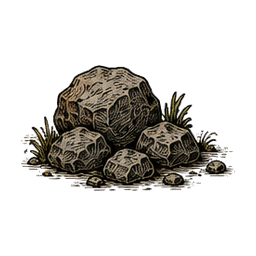
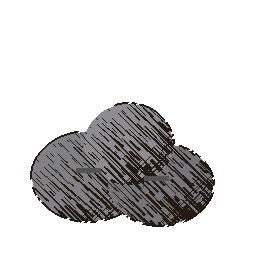
Add diverse terrain decorations and improve terrain rendering
- Introduce new decoration types: deciduous trees, bushes, grass, flowers, and scattered groves for more natural landscapes.
- Add support for decoration height, fallback colors, and density tuning with camp-centered and wide-scatter passes.
- Update `ScatterDecoration` to handle circular radius-based placement for better realism.
- Include new texture imports for added decoration assets (`deciduous_tree`, `bush`, `grass`, `flower`).
- Extend `Main` and `TerrainSandbox` to initialize and render diverse terrain elements.
- Add felling configuration to resources (`apple`, `pear`) with leaf drops on fell.

diff --git a/src/ManyWinters.Godot/Main.cs b/src/ManyWinters.Godot/Main.cs
@@ -23,14 +23,51 @@ public partial class Main : Node3D
     private const string WaterwaysPath = "res://Content/terrain/praha-liben/waterways.json";
     private const string GroundTexturePath = "res://Content/terrain/ground.png";
     private const string ConiferTreePath = "res://Content/terrain/conifer_tree.png";
+    private const string DeciduousTreePath = "res://Content/terrain/deciduous_tree.png";
+    private const string BushPath = "res://Content/terrain/bush.png";
+    private const string GrassPath = "res://Content/terrain/grass.png";
+    private const string FlowerPath = "res://Content/terrain/flower.png";
     private const string RockPilePath = "res://Content/terrain/rock_pile.png";
-    private const int TreeCount = 90;
-    private const int RockCount = 35;
+    private const int TreeCount = 140;
+    private const int DeciduousTreeCount = 100;
+    private const int BushCount = 90;
+    private const int GrassCount = 400;
+    private const int FlowerCount = 70;
+    private const int RockCount = 60;
+    // A second, sparser pass across the whole real terrain patch (radius = _terrain.Half)
+    // on top of the camp-centered one above - without it, everywhere outside
+    // DecorationRadius of camp is bare, since the dense pass never reaches that far.
+    private const int WideTreeCount = 70;
+    private const int WideDeciduousTreeCount = 50;
+    private const int WideBushCount = 40;
+    private const int WideGrassCount = 120;
+    private const int WideFlowerCount = 30;
+    private const int WideRockCount = 30;
+    // A handful of standalone groves scattered elsewhere on the map, on top of the wide
+    // background pass and the camp's own dense zone - a single "dense disk around camp,
+    // sparse everywhere else" gradient reads as one unnaturally uniform blob rather than the
+    // patchy, clumped-together way real forest cover actually sits on a landscape.
+    private const int GroveCount = 4;
+    private const float GroveRadius = 55f;
+    private const int GroveTreeCount = 60;
+    private const int GroveDeciduousTreeCount = 40;
+    private const int GroveBushCount = 35;
+    private const int GroveGrassCount = 160;
+    private const int GroveFlowerCount = 25;
+    private const int GroveRockCount = 22;
     private const float TreeHeightMeters = 8f;
+    private const float DeciduousTreeHeightMeters = 7f;
+    private const float BushHeightMeters = 1.2f;
+    private const float GrassHeightMeters = 0.4f;
+    private const float FlowerHeightMeters = 0.35f;
     private const float RockHeightMeters = 1.5f;
     private const float DecorationMinScale = 0.8f;
     private const float DecorationMaxScale = 1.3f;
     private const int DecorationScatterSeed = 1;
+    // Centered on the camp, not spread across the whole real terrain patch (Half=500) - see
+    // ScatterDecoration's doc comment. Comfortably covers the starting band and the area a
+    // player will actually walk around in without needing anywhere near the full 500m extent.
+    private const float DecorationRadius = 70f;
 
     // The starting band spans roughly 8x4 units and is centered exactly on campPosition
     // (see MapLoader.LoadDefault), so a close default zoom lets it fill most of the frame
@@ -40,6 +77,10 @@ public partial class Main : Node3D
     private const float MaxZoom = 2000f;
 
     private static readonly Color TreeFallbackColor = new(0.20f, 0.32f, 0.18f);
+    private static readonly Color DeciduousTreeFallbackColor = new(0.30f, 0.38f, 0.22f);
+    private static readonly Color BushFallbackColor = new(0.26f, 0.36f, 0.18f);
+    private static readonly Color GrassFallbackColor = new(0.32f, 0.42f, 0.18f);
+    private static readonly Color FlowerFallbackColor = new(0.82f, 0.52f, 0.62f);
     private static readonly Color RockFallbackColor = new(0.5f, 0.5f, 0.52f);
 
     private WorldState _world = null!;
@@ -156,8 +197,33 @@ public partial class Main : Node3D
         _terrain.BuildWaterways(this);
 
         var rng = new Random(DecorationScatterSeed);
-        _terrain.ScatterDecoration(this, rng, TreeCount, ConiferTreePath, TreeHeightMeters, TreeFallbackColor, DecorationMinScale, DecorationMaxScale);
-        _terrain.ScatterDecoration(this, rng, RockCount, RockPilePath, RockHeightMeters, RockFallbackColor, DecorationMinScale, DecorationMaxScale);
+        var campX = (float)_campCenter.X;
+        var campZ = (float)_campCenter.Y;
+        _terrain.ScatterDecoration(this, rng, TreeCount, ConiferTreePath, TreeHeightMeters, TreeFallbackColor, DecorationMinScale, DecorationMaxScale, campX, campZ, DecorationRadius);
+        _terrain.ScatterDecoration(this, rng, DeciduousTreeCount, DeciduousTreePath, DeciduousTreeHeightMeters, DeciduousTreeFallbackColor, DecorationMinScale, DecorationMaxScale, campX, campZ, DecorationRadius);
+        _terrain.ScatterDecoration(this, rng, BushCount, BushPath, BushHeightMeters, BushFallbackColor, DecorationMinScale, DecorationMaxScale, campX, campZ, DecorationRadius);
+        _terrain.ScatterDecoration(this, rng, GrassCount, GrassPath, GrassHeightMeters, GrassFallbackColor, DecorationMinScale, DecorationMaxScale, campX, campZ, DecorationRadius);
+        _terrain.ScatterDecoration(this, rng, FlowerCount, FlowerPath, FlowerHeightMeters, FlowerFallbackColor, DecorationMinScale, DecorationMaxScale, campX, campZ, DecorationRadius);
+        _terrain.ScatterDecoration(this, rng, RockCount, RockPilePath, RockHeightMeters, RockFallbackColor, DecorationMinScale, DecorationMaxScale, campX, campZ, DecorationRadius);
+
+        for (var i = 0; i < GroveCount; i++)
+        {
+            var groveX = ((float)rng.NextDouble() - 0.5f) * 2f * _terrain.Half;
+            var groveZ = ((float)rng.NextDouble() - 0.5f) * 2f * _terrain.Half;
+            _terrain.ScatterDecoration(this, rng, GroveTreeCount, ConiferTreePath, TreeHeightMeters, TreeFallbackColor, DecorationMinScale, DecorationMaxScale, groveX, groveZ, GroveRadius);
+            _terrain.ScatterDecoration(this, rng, GroveDeciduousTreeCount, DeciduousTreePath, DeciduousTreeHeightMeters, DeciduousTreeFallbackColor, DecorationMinScale, DecorationMaxScale, groveX, groveZ, GroveRadius);
+            _terrain.ScatterDecoration(this, rng, GroveBushCount, BushPath, BushHeightMeters, BushFallbackColor, DecorationMinScale, DecorationMaxScale, groveX, groveZ, GroveRadius);
+            _terrain.ScatterDecoration(this, rng, GroveGrassCount, GrassPath, GrassHeightMeters, GrassFallbackColor, DecorationMinScale, DecorationMaxScale, groveX, groveZ, GroveRadius);
+            _terrain.ScatterDecoration(this, rng, GroveFlowerCount, FlowerPath, FlowerHeightMeters, FlowerFallbackColor, DecorationMinScale, DecorationMaxScale, groveX, groveZ, GroveRadius);
+            _terrain.ScatterDecoration(this, rng, GroveRockCount, RockPilePath, RockHeightMeters, RockFallbackColor, DecorationMinScale, DecorationMaxScale, groveX, groveZ, GroveRadius);
+        }
+
+        _terrain.ScatterDecoration(this, rng, WideTreeCount, ConiferTreePath, TreeHeightMeters, TreeFallbackColor, DecorationMinScale, DecorationMaxScale, 0f, 0f, _terrain.Half);
+        _terrain.ScatterDecoration(this, rng, WideDeciduousTreeCount, DeciduousTreePath, DeciduousTreeHeightMeters, DeciduousTreeFallbackColor, DecorationMinScale, DecorationMaxScale, 0f, 0f, _terrain.Half);
+        _terrain.ScatterDecoration(this, rng, WideBushCount, BushPath, BushHeightMeters, BushFallbackColor, DecorationMinScale, DecorationMaxScale, 0f, 0f, _terrain.Half);
+        _terrain.ScatterDecoration(this, rng, WideGrassCount, GrassPath, GrassHeightMeters, GrassFallbackColor, DecorationMinScale, DecorationMaxScale, 0f, 0f, _terrain.Half);
+        _terrain.ScatterDecoration(this, rng, WideFlowerCount, FlowerPath, FlowerHeightMeters, FlowerFallbackColor, DecorationMinScale, DecorationMaxScale, 0f, 0f, _terrain.Half);
+        _terrain.ScatterDecoration(this, rng, WideRockCount, RockPilePath, RockHeightMeters, RockFallbackColor, DecorationMinScale, DecorationMaxScale, 0f, 0f, _terrain.Half);
     }
 
     private void SetUpCamera()

diff --git a/src/ManyWinters.Godot/TerrainSandbox.cs b/src/ManyWinters.Godot/TerrainSandbox.cs
@@ -7,73 +7,96 @@ namespace ManyWinters.Godot;
 // out real elevation data + camera behavior, per conventions.md's prototype/production split.
 public partial class TerrainSandbox : Node3D
 {
-	private const string HeightmapPath = "res://Content/terrain/praha-liben/heightmap.json";
-	private const string WaterwaysPath = "res://Content/terrain/praha-liben/waterways.json";
-	private const string GroundTexturePath = "res://Content/terrain/ground.png";
+    private const string HeightmapPath = "res://Content/terrain/praha-liben/heightmap.json";
+    private const string WaterwaysPath = "res://Content/terrain/praha-liben/waterways.json";
+    private const string GroundTexturePath = "res://Content/terrain/ground.png";
 
-	private const string ConiferTreePath = "res://Content/terrain/conifer_tree.png";
-	private const string RockPilePath = "res://Content/terrain/rock_pile.png";
-	private const string PersonTexturePath = "res://Content/people/person.png";
-	private const int TreeCount = 90;
-	private const int RockCount = 35;
-	private const int PersonCount = 12;
-	private const float TreeHeightMeters = 8f;
-	private const float RockHeightMeters = 1.5f;
-	private const float PersonHeightMeters = PersonView.Height;
-	private const float PropMinScale = 0.8f;
-	private const float PropMaxScale = 1.3f;
-	private const int PropScatterSeed = 1;
+    private const string ConiferTreePath = "res://Content/terrain/conifer_tree.png";
+    private const string DeciduousTreePath = "res://Content/terrain/deciduous_tree.png";
+    private const string BushPath = "res://Content/terrain/bush.png";
+    private const string GrassPath = "res://Content/terrain/grass.png";
+    private const string FlowerPath = "res://Content/terrain/flower.png";
+    private const string RockPilePath = "res://Content/terrain/rock_pile.png";
+    private const string PersonTexturePath = "res://Content/people/person.png";
+    private const int TreeCount = 90;
+    private const int DeciduousTreeCount = 60;
+    private const int BushCount = 50;
+    private const int GrassCount = 150;
+    private const int FlowerCount = 40;
+    private const int RockCount = 35;
+    private const int PersonCount = 12;
+    private const float TreeHeightMeters = 8f;
+    private const float DeciduousTreeHeightMeters = 7f;
+    private const float BushHeightMeters = 1.2f;
+    private const float GrassHeightMeters = 0.4f;
+    private const float FlowerHeightMeters = 0.35f;
+    private const float RockHeightMeters = 1.5f;
+    private const float PersonHeightMeters = PersonView.Height;
+    private const float PropMinScale = 0.8f;
+    private const float PropMaxScale = 1.3f;
+    private const int PropScatterSeed = 1;
 
-	// Sized for this heightmap's real scale (1000 m across, ~80 m of relief) - not the tiny
-	// 20-unit test map Main.cs uses. A camera at the old (test-map-sized) distances would sit
-	// inside the terrain itself here.
-	private const float InitialZoomDistance = 700f;
-	private const float MinZoom = 3f;
-	private const float MaxZoom = 2000f;
+    // Sized for this heightmap's real scale (1000 m across, ~80 m of relief) - not the tiny
+    // 20-unit test map Main.cs uses. A camera at the old (test-map-sized) distances would sit
+    // inside the terrain itself here.
+    private const float InitialZoomDistance = 700f;
+    private const float MinZoom = 3f;
+    private const float MaxZoom = 2000f;
 
-	private static readonly Color TreeFallbackColor = new(0.20f, 0.32f, 0.18f);
-	private static readonly Color RockFallbackColor = new(0.5f, 0.5f, 0.52f);
-	private static readonly Color PersonFallbackColor = new(0.9f, 0.7f, 0.5f);
+    private static readonly Color TreeFallbackColor = new(0.20f, 0.32f, 0.18f);
+    private static readonly Color DeciduousTreeFallbackColor = new(0.30f, 0.38f, 0.22f);
+    private static readonly Color BushFallbackColor = new(0.26f, 0.36f, 0.18f);
+    private static readonly Color GrassFallbackColor = new(0.32f, 0.42f, 0.18f);
+    private static readonly Color FlowerFallbackColor = new(0.82f, 0.52f, 0.62f);
+    private static readonly Color RockFallbackColor = new(0.5f, 0.5f, 0.52f);
+    private static readonly Color PersonFallbackColor = new(0.9f, 0.7f, 0.5f);
 
-	private TerrainRenderer _terrain = null!;
-	private FreeCameraRig _cameraRig = null!;
+    private TerrainRenderer _terrain = null!;
+    private FreeCameraRig _cameraRig = null!;
 
-	public override void _Ready()
-	{
-		SetUpLighting();
+    public override void _Ready()
+    {
+        SetUpLighting();
 
-		_terrain = new TerrainRenderer(HeightmapPath, WaterwaysPath, GroundTexturePath);
-		_terrain.BuildTerrainMesh(this);
-		_terrain.BuildWaterways(this);
+        _terrain = new TerrainRenderer(HeightmapPath, WaterwaysPath, GroundTexturePath);
+        _terrain.BuildTerrainMesh(this);
+        _terrain.BuildWaterways(this);
 
-		var rng = new Random(PropScatterSeed);
-		_terrain.ScatterDecoration(this, rng, TreeCount, ConiferTreePath, TreeHeightMeters, TreeFallbackColor, PropMinScale, PropMaxScale);
-		_terrain.ScatterDecoration(this, rng, RockCount, RockPilePath, RockHeightMeters, RockFallbackColor, PropMinScale, PropMaxScale);
-		_terrain.ScatterDecoration(this, rng, PersonCount, PersonTexturePath, PersonHeightMeters, PersonFallbackColor, PropMinScale, PropMaxScale);
+        // Scattered across the whole loaded patch (radius = _terrain.Half), unlike Main.cs's
+        // camp-centered radius - this scene is specifically for eyeballing decoration over
+        // real terrain at full scale, not a small playable area around a camp.
+        var rng = new Random(PropScatterSeed);
+        _terrain.ScatterDecoration(this, rng, TreeCount, ConiferTreePath, TreeHeightMeters, TreeFallbackColor, PropMinScale, PropMaxScale, 0f, 0f, _terrain.Half);
+        _terrain.ScatterDecoration(this, rng, DeciduousTreeCount, DeciduousTreePath, DeciduousTreeHeightMeters, DeciduousTreeFallbackColor, PropMinScale, PropMaxScale, 0f, 0f, _terrain.Half);
+        _terrain.ScatterDecoration(this, rng, BushCount, BushPath, BushHeightMeters, BushFallbackColor, PropMinScale, PropMaxScale, 0f, 0f, _terrain.Half);
+        _terrain.ScatterDecoration(this, rng, GrassCount, GrassPath, GrassHeightMeters, GrassFallbackColor, PropMinScale, PropMaxScale, 0f, 0f, _terrain.Half);
+        _terrain.ScatterDecoration(this, rng, FlowerCount, FlowerPath, FlowerHeightMeters, FlowerFallbackColor, PropMinScale, PropMaxScale, 0f, 0f, _terrain.Half);
+        _terrain.ScatterDecoration(this, rng, RockCount, RockPilePath, RockHeightMeters, RockFallbackColor, PropMinScale, PropMaxScale, 0f, 0f, _terrain.Half);
+        _terrain.ScatterDecoration(this, rng, PersonCount, PersonTexturePath, PersonHeightMeters, PersonFallbackColor, PropMinScale, PropMaxScale, 0f, 0f, _terrain.Half);
 
-		_cameraRig = new FreeCameraRig(this, Vector3.Zero, InitialZoomDistance, MinZoom, MaxZoom);
-	}
+        _cameraRig = new FreeCameraRig(this, Vector3.Zero, InitialZoomDistance, MinZoom, MaxZoom);
+    }
 
-	public override void _Process(double delta)
-	{
-		_cameraRig.HandleInput((float)delta);
-	}
+    public override void _Process(double delta)
+    {
+        _cameraRig.HandleInput((float)delta);
+    }
 
-	public override void _Input(InputEvent @event)
-	{
-		if (@event is InputEventKey { Pressed: true, Echo: false, Keycode: Key.T })
-		{
-			_cameraRig.ToggleProjection();
-		}
+    public override void _Input(InputEvent @event)
+    {
+        if (@event is InputEventKey { Pressed: true, Echo: false, Keycode: Key.T })
+        {
+            _cameraRig.ToggleProjection();
+        }
 
-		_cameraRig.HandleMouseInput(@event);
-	}
+        _cameraRig.HandleMouseInput(@event);
+    }
 
-	private void SetUpLighting()
-	{
-		AddChild(new DirectionalLight3D
-		{
-			Rotation = new Vector3(Mathf.DegToRad(-55), Mathf.DegToRad(-35), 0),
-		});
-	}
+    private void SetUpLighting()
+    {
+        AddChild(new DirectionalLight3D
+        {
+            Rotation = new Vector3(Mathf.DegToRad(-55), Mathf.DegToRad(-35), 0),
+        });
+    }
 }

diff --git a/src/ManyWinters.Godot/TerrainRenderer.cs b/src/ManyWinters.Godot/TerrainRenderer.cs
@@ -263,6 +263,11 @@ public sealed class TerrainRenderer
 
     // Cutout/billboard scatter (visual plan Phase B/C) - purely decorative, unrelated to
     // gameplay resource nodes. Reuses the same BillboardSprite every other entity uses.
+    //
+    // Scattered within radius of (centerX, centerZ), not across the whole terrain patch -
+    // a count that reads as a reasonably dense forest over a real ~1 km terrain (Half=500)
+    // is instead spread so thin that the tiny playable area around it looks bare, since
+    // that area is a negligible fraction of the total scatter footprint.
     public void ScatterDecoration(
         Node3D parent,
         Random rng,
@@ -271,12 +276,20 @@ public sealed class TerrainRenderer
         float baseHeight,
         Color fallbackColor,
         float minScale,
-        float maxScale)
+        float maxScale,
+        float centerX,
+        float centerZ,
+        float radius)
     {
         for (var i = 0; i < count; i++)
         {
-            var x = ((float)rng.NextDouble() - 0.5f) * 2f * Half;
-            var z = ((float)rng.NextDouble() - 0.5f) * 2f * Half;
+            // Uniform over the *disk* of radius, not independent x/z within [-radius, radius]
+            // (a square) - sqrt(u) compensates for the outer rings of a circle covering more
+            // area than the inner ones, so points don't bunch up toward the center.
+            var angle = (float)rng.NextDouble() * Mathf.Tau;
+            var distance = radius * MathF.Sqrt((float)rng.NextDouble());
+            var x = centerX + (MathF.Cos(angle) * distance);
+            var z = centerZ + (MathF.Sin(angle) * distance);
             var scale = minScale + ((float)rng.NextDouble() * (maxScale - minScale));
             var worldHeight = baseHeight * scale;
 
